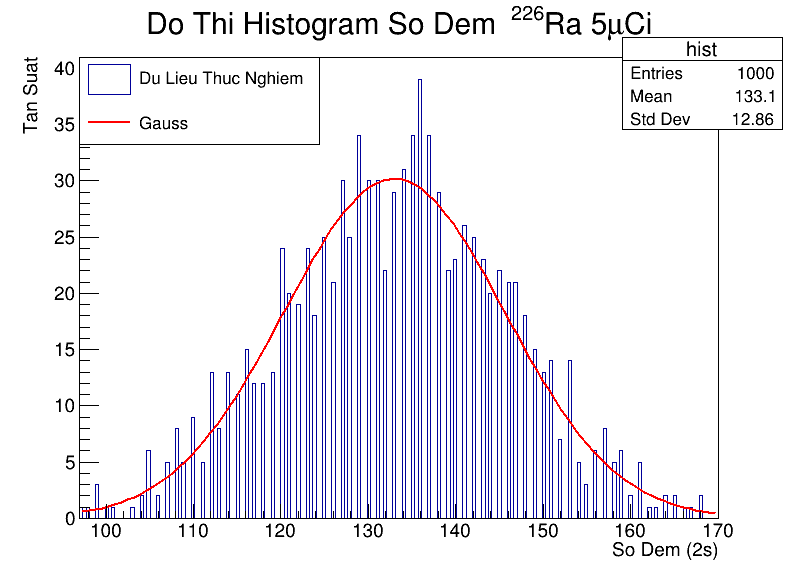
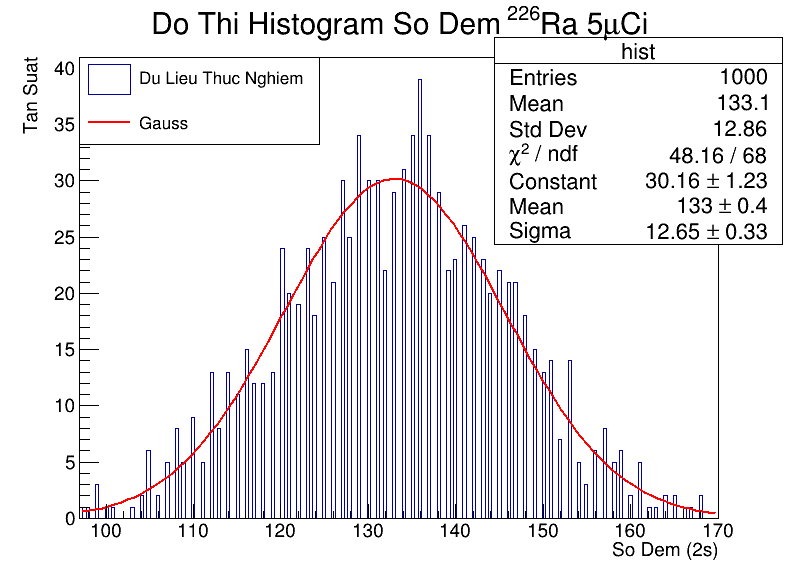
Add files via upload

Changed region(s): [[0.6316, 0.0, 0.9624, 0.4375], [0.1805, 0.0, 0.6316, 0.0938]]

diff --git a/ThreePlotBg.C b/ThreePlotBg.C
@@ -1,17 +1,19 @@
 void ThreePlotBg() {
+
+	// Set value
+	int count_min = 0;
+	int count_max = 18;
+	int Fre_Max = 181;
+	//
+
     TCanvas *c1 = new TCanvas("c1", "Poisson, Gaussian, and Lorentzian Plot", 800, 600);
 
-    TH1F *hist = new TH1F("hist", "Do Thi Histogram So Dem Phong 1000", 100, 0, 20);
-    TH1F *hist2 = new TH1F("hist2", "Do Thi Histogram So Dem Phong 1000", 100, 0, 20);
-    TH1F *hist3 = new TH1F("hist3", "Do Thi Histogram So Dem Phong 1000", 100, 0, 20);
+    TH1F *hist = new TH1F("hist", "Do Thi Histogram So Dem Phong 1000", 100, count_min, count_max);
+    TH1F *hist2 = new TH1F("hist2", "Do Thi Histogram So Dem Phong 1000", 100, count_min, count_max);
+    TH1F *hist3 = new TH1F("hist3", "Do Thi Histogram So Dem Phong 1000", 100, count_min, count_max);
 
     std::ifstream file;
     file.open("Data_Output/Only_BackGround_1000.txt", std::ios::in);
-
-    // Skip the first line
-    std::string line;
-    std::getline(file, line);
-    // Skip the first line
     
     double value;
 
@@ -38,19 +40,19 @@ void ThreePlotBg() {
     hist3->Draw("SAME");
 
     // Fit a Poisson distribution to hist
-    TF1 *mypoisson = new TF1("mypoisson", "[0]*TMath::Poisson(x, [1])", 0, 20);
+    TF1 *mypoisson = new TF1("mypoisson", "[0]*TMath::Poisson(x, [1])", count_min, count_max);
     mypoisson->SetParameters(hist->GetEntries(), hist->GetMean());
     mypoisson->SetLineColor(kRed);
     hist->Fit(mypoisson, "R");
 
     // Fit a Gaussian distribution to hist2
-    TF1 *mygauss = new TF1("mygauss", "gaus", 0, 20);
+    TF1 *mygauss = new TF1("mygauss", "gaus", count_min, count_max);
     mygauss->SetLineColor(kBlue);
     hist2->Fit(mygauss, "R");
 
     // Fit a Lorentzian distribution to hist3
-    TF1 *mylorentz = new TF1("mylorentz", "[0]/TMath::Pi() * [2] / ((x - [1])*(x - [1]) + [2]*[2])", 0, 20);
-    mylorentz->SetParameters(1000, hist3->GetMean(), hist3->GetRMS());
+    TF1 *mylorentz = new TF1("mylorentz", "[0]/TMath::Pi() * [2] / ((x - [1])*(x - [1]) + [2]*[2])", count_min, count_max);
+    mylorentz->SetParameters(hist->GetEntries(), hist3->GetMean(), hist3->GetRMS());
     mylorentz->SetLineColor(kGreen);
     hist3->Fit(mylorentz, "R");
 

diff --git a/ThreePlotSr.C b/ThreePlotSr.C
@@ -1,19 +1,21 @@
 
 void ThreePlotSr(){
+	
+	// Set value
+	int count_min = 97;
+	int count_max = 170;
+	int Fre_Max = 139;
+	//
+
 	TCanvas *c1 = new TCanvas("c1", "Gauss", 800, 600);
 	
-	TH1F *hist = new TH1F("hist", "Do Thi Histogram So Dem {}^{226}Ra 5#muCi", 200, 97, 170);
-	TH1F *hist2 = new TH1F("hist2", "Do Thi Histogram So Dem {}^{226}Ra 5#muCi", 200, 97, 170);
-	TH1F *hist3 = new TH1F("hist3", "Do Thi Histogram So Dem {}^{226}Ra 5#muCi", 200, 97, 170);	
+	TH1F *hist = new TH1F("hist", "Do Thi Histogram So Dem {}^{226}Ra 5#muCi", 200, count_min, count_max);
+	TH1F *hist2 = new TH1F("hist2", "Do Thi Histogram So Dem {}^{226}Ra 5#muCi", 200, count_min, count_max);
+	TH1F *hist3 = new TH1F("hist3", "Do Thi Histogram So Dem {}^{226}Ra 5#muCi", 200, count_min, count_max);	
 
 	std::fstream file;
 	file.open("Data_Output/Only_Source_1000.txt", std::ios::in);
-	
-	// Skip the first line
-	std::string line;
-	std::getline(file, line);
-	// Skip the first line]
-	
+
 	double value;
 	
 	if (file.is_open())	{
@@ -36,19 +38,19 @@ void ThreePlotSr(){
 	hist3->Draw("SAME");
 	
 	// Fit Gauss
-	TF1 *mygauss = new TF1("mygauss", "gaus", 97, 170);
+	TF1 *mygauss = new TF1("mygauss", "gaus", count_min, count_max);
 	mygauss->SetLineColor(kRed);
 	hist->Fit(mygauss, "R");
 	
 	// Poisson
-	TF1 *mypoisson = new TF1("mypoisson", "[0]*TMath::Poisson(x, [1])", 97, 170);
-	mypoisson->SetParameters(hist2->GetEntries(), hist2->GetMean());
+	TF1 *mypoisson = new TF1("mypoisson", "[0]*TMath::Poisson(x, [1])", count_min, count_max);
+	mypoisson->SetParameters(hist->GetEntries(), hist->GetMean());
 	mypoisson->SetLineColor(kBlue);
 	hist2->Fit(mypoisson, "R");
 
 	// Fit Lorentzian
-	TF1 *mylorentz = new TF1("mylorentz", "[0]/TMath::Pi() * [2] / ((x - [1])*(x - [1]) + [2]*[2])", 97, 170);
-	mylorentz->SetParameters(1000, hist3->GetMean(), hist3->GetRMS());
+	TF1 *mylorentz = new TF1("mylorentz", "[0]/TMath::Pi() * [2] / ((x - [1])*(x - [1]) + [2]*[2])", count_min, count_max);
+	mylorentz->SetParameters(hist->GetEntries(), hist->GetMean(), hist->GetRMS());
 	mylorentz->SetLineColor(kGreen);
 	hist3->Fit(mylorentz, "R");
 	

diff --git a/PoissonPlotBg.C b/PoissonPlotBg.C
@@ -1,17 +1,19 @@
 
 
 void PoissonPlotBg() {
+	
+	// Set value
+	int count_min = 0;
+	int count_max = 18;
+	int Fre_Max = 181;
+	//
+	
     	TCanvas *c1 = new TCanvas("c1", "Poisson Plot", 800, 600);
 	
-	TH1F *hist = new TH1F("hist", "Do Thi Histogram So Dem Phong 1000", 100, 0, 20);
+	TH1F *hist = new TH1F("hist", "Do Thi Histogram So Dem Phong 1000", 100, count_min, count_max);
 	
 	fstream file;
 	file.open("Data_Output/Only_BackGround_1000.txt", ios::in);
-	
-	// Skip the first line
-	string line;
-	getline(file, line);
-	// Skip the first line
 	
 	double value;
 
@@ -31,16 +33,17 @@ void PoissonPlotBg() {
 	hist->Draw();        
 	
 	// Fit a Poisson distribution to the histogram
-	TF1 *fitFunc = new TF1("fitFunc", "[0]*TMath::Poisson(x, [1])", 0, 20);
-	fitFunc->SetParameters(1000, hist->GetMean()); // Set initial parameters
-	hist->Fit(fitFunc);
+	TF1 *mypoisson = new TF1("mypoisson", "[0]*TMath::Poisson(x, [1])", count_min, count_max);
+    	mypoisson->SetParameters(hist->GetEntries(), hist->GetMean());
+    	mypoisson->SetParNames("Constant","Mean_value");
+    	mypoisson->SetLineColor(kRed);
+   	hist->Fit(mypoisson, "R");
 	
-	TLegend *legend = new TLegend(0.6, 0.6, 0.9, 0.75); // Create a legend object
+	TLegend *legend = new TLegend(0.6, 0.5, 0.9, 0.4); // Create a legend object
 	legend->AddEntry(hist, "Du Lieu Thuc Nghiem", "f"); // Add entry for histogram with "f" option for fill style
-	legend->AddEntry(fitFunc, "Poisson", "l"); // Add entry for fit function with "l" option for line style
+	legend->AddEntry(mypoisson, "Poisson", "l"); // Add entry for fit function with "l" option for line style
 	legend->Draw(); // Draw the legend
-
-
+	
 	c1->Update();
     	c1->Modified();
 }

diff --git a/GaussPlotSr.C b/GaussPlotSr.C
@@ -1,17 +1,19 @@
 
 void GaussPlotSr(){
+
+	// Set value
+	int count_min = 97;
+	int count_max = 170;
+	int Fre_Max = 139;
+	//
+
 	TCanvas *c1 = new TCanvas("c1", "Gauss", 800, 600);
 	
-	TH1F *hist = new TH1F("hist", "Do Thi Histogram So Dem{}^{226}Ra 5#muCi", 200, 97, 170);
+	TH1F *hist = new TH1F("hist", "Do Thi Histogram So Dem{}^{226}Ra 5#muCi", 200, count_min, count_max);
 	
 	
 	std::ifstream file;
 	file.open("Data_Output/Only_Source_1000.txt", std::ios::in);
-	
-	// Skip the first line
-	std::string line;
-	std::getline(file, line);
-	// Skip the first line
 	
 	double value;
 	
@@ -32,7 +34,7 @@ void GaussPlotSr(){
 	hist->Draw();
 	
 	// Fit Gauss
-	TF1 *mygauss = new TF1("mygauss", "gaus", 97, 170);
+	TF1 *mygauss = new TF1("mygauss", "gaus", count_min, count_max);
 	mygauss->SetLineColor(kRed);
 	hist->Fit(mygauss, "R");
 	
@@ -41,7 +43,9 @@ void GaussPlotSr(){
 	legend->AddEntry(hist, "Du Lieu Thuc Nghiem", "f");
 	legend->AddEntry(mygauss, "Gauss", "l");
 	legend->Draw();
-
+	
+	// Show fit Parameters 
+	mygauss->SetParameters(hist->GetEntries(), hist->GetMean(), hist->GetRMS());
 	
 	c1->Update();
 	c1->Modified();
